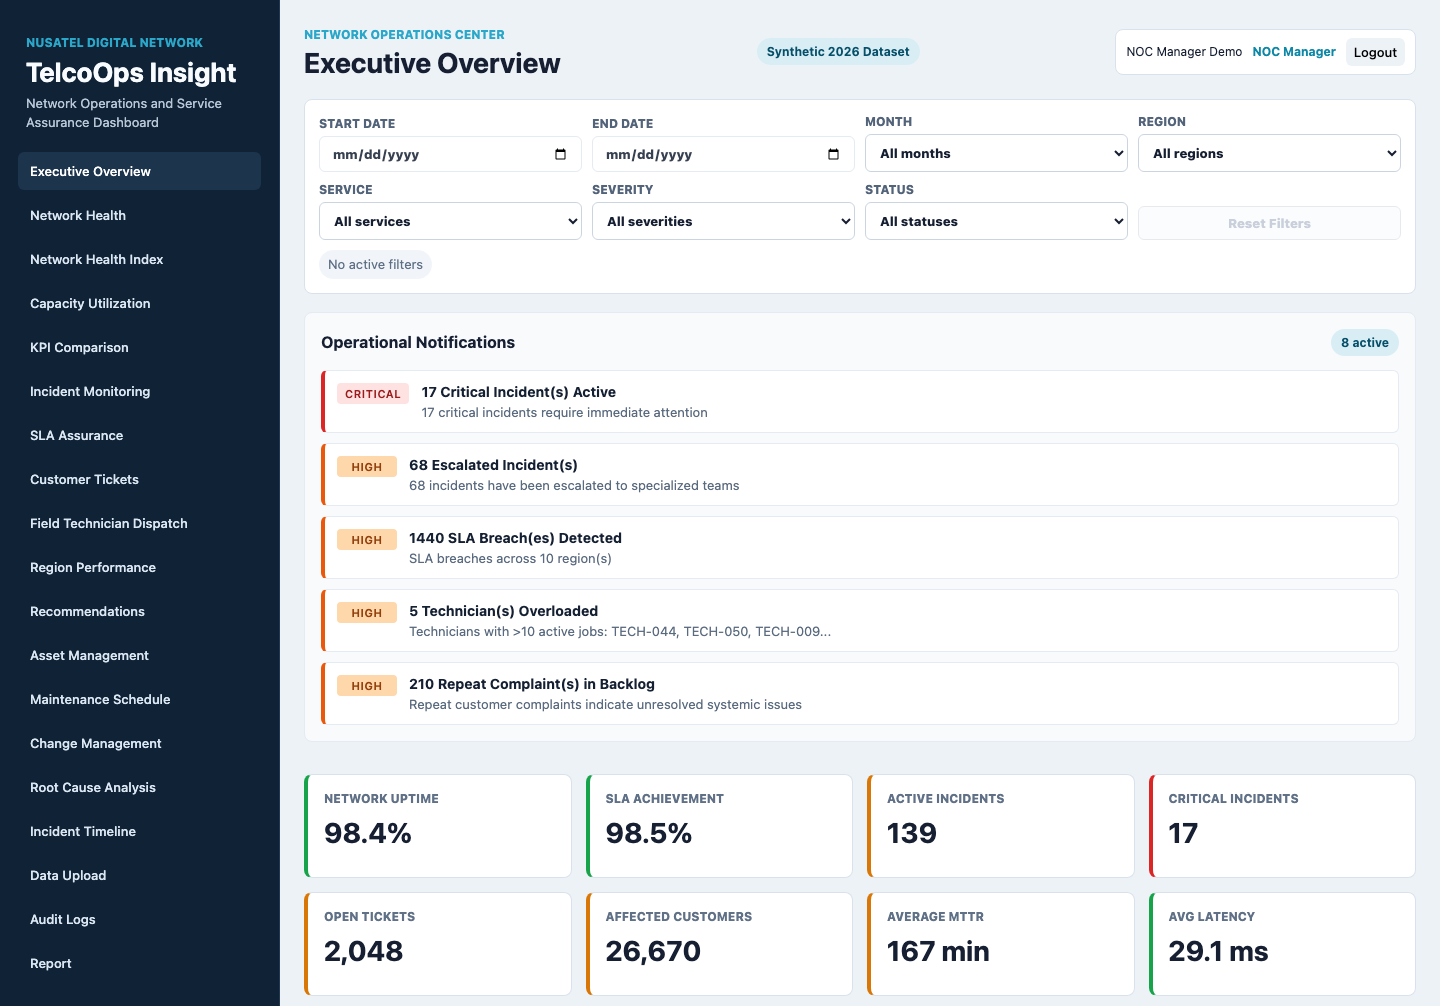
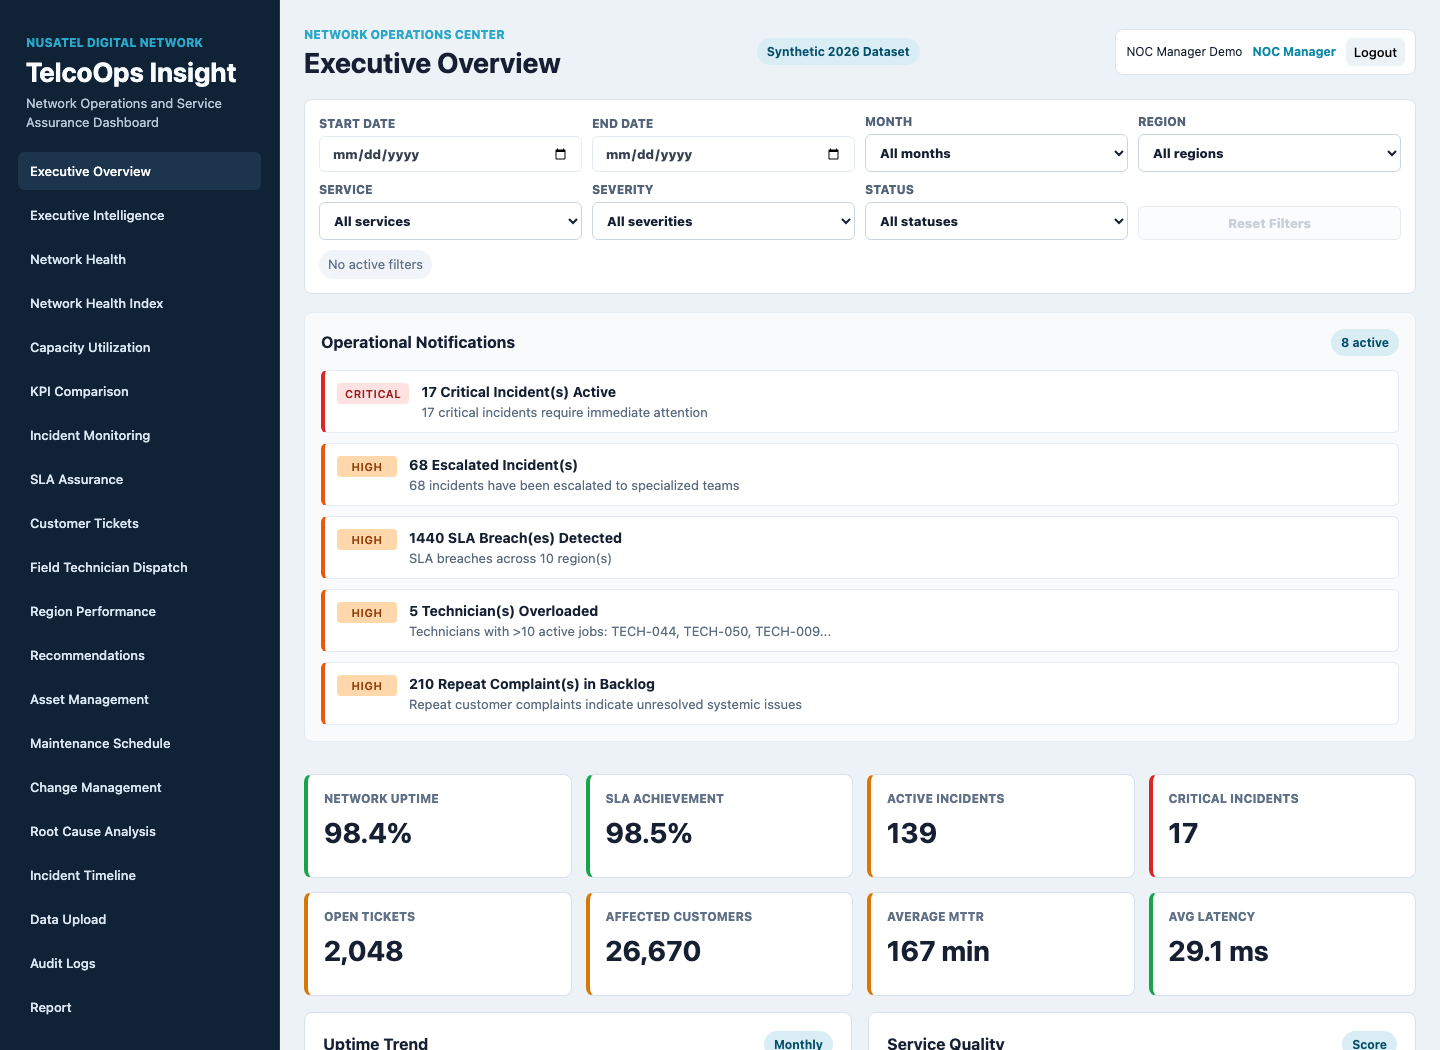
docs: verify operational intelligence

diff --git a/docs/TOI_0006_MANUAL_QA.md b/docs/TOI_0006_MANUAL_QA.md
@@ -1,0 +1,176 @@
+# TOI-0006 Manual QA Report
+
+## Execution Date
+August 4, 2026
+
+## Test Environment
+- Backend: Python 3.12, FastAPI, SQLite
+- Frontend: React 18, Vite 7, TypeScript
+- Dataset: Synthetic 2026 telecom operations data
+
+## Test Coverage
+
+### 1. Authentication & Authorization
+- [x] Login with noc_manager / telco-demo-2026 works
+- [x] Invalid credentials rejected
+- [x] Role-based access maintained
+- [x] Protected endpoints require valid token
+
+### 2. Executive Overview
+- [x] KPI cards display correctly
+- [x] Charts render (uptime trend, service quality)
+- [x] Notifications strip shows alerts
+- [x] Recommendations panel works
+- [x] Filters apply correctly
+
+### 3. Executive Intelligence (NEW)
+- [x] Operational Health score displays (e.g., 75.5)
+- [x] Health status (Good/Fair/Poor) shown
+- [x] Critical Alerts list populated
+- [x] Top Risks list populated
+- [x] Opportunities list populated
+- [x] Recommended Actions with priority/owner/deadline
+- [x] Health components breakdown (incident, SLA, asset)
+
+### 4. Network Health & Health Index
+- [x] Network Health charts render
+- [x] Health Index shows composite score (75.5)
+- [x] 4 components: Availability, Reliability, Performance, Capacity
+- [x] Sub-scores displayed
+
+### 5. Capacity Utilization
+- [x] Services table with congestion levels
+- [x] Regions table with utilization
+- [x] Monthly trend chart
+
+### 6. KPI Comparison
+- [x] Week/Month/Quarter/Year periods
+- [x] Delta percentages shown
+- [x] Color-coded positive/negative deltas
+
+### 7. Incident Monitoring
+- [x] Incident table with all columns
+- [x] Severity color-coding
+- [x] Status badges
+- [x] Drilldowns work
+
+### 8. SLA Assurance
+- [x] SLA achievement metrics
+- [x] Breach analysis
+- [x] Region/service comparison
+
+### 9. Customer Tickets
+- [x] Backlog counts
+- [x] Category breakdown
+- [x] Response/resolution times
+
+### 10. Technician Dispatch
+- [x] Utilization metrics
+- [x] Workload distribution
+- [x] Overload detection
+
+### 11. Region Performance
+- [x] Ranking table with health scores
+- [x] SLA achievement by region
+- [x] Customer satisfaction
+
+### 12. Recommendations
+- [x] Priority scoring (P1-P4)
+- [x] Business/technical impact text
+- [x] NEW: Urgency window with deadline
+- [x] NEW: Actionability score
+- [x] NEW: Enhanced owner assignment with escalation path
+- [x] Severity color-coding
+
+### 13. Asset Management
+- [x] 7 asset types shown
+- [x] Status breakdown
+- [x] Faulty assets list
+- [x] Maintenance due
+
+### 14. Maintenance Schedule
+- [x] Job type breakdown
+- [x] Upcoming/completed tables
+- [x] First-time fix rate
+
+### 15. Change Management
+- [x] Planned vs Emergency changes
+- [x] Approval workflow status
+- [x] Rollback tracking
+
+### 16. Root Cause Analysis
+- [x] RCA records with categories
+- [x] Method (5 Whys, Fishbone, etc.)
+- [x] Status progression
+
+### 17. Incident Timeline
+- [x] Chronological event list
+- [x] Event reconstruction
+- [x] Actor tracking
+
+### 18. Data Upload
+- [x] File selection
+- [x] Validation results
+- [x] Import history
+
+### 19. Report
+- [x] JSON download
+- [x] HTML report
+- [x] Filter metadata included
+
+### 20. New API Endpoints Verified
+- [x] GET /api/dashboard/intelligence - 200
+- [x] GET /api/dashboard/brief - 200
+- [x] GET /api/dashboard/trends - 200
+- [x] GET /api/dashboard/ranking/regions - 200
+- [x] GET /api/dashboard/ranking/technicians - 200
+- [x] GET /api/dashboard/operational-timeline - 200
+- [x] GET /api/dashboard/what-if?technician_change=5 - 200
+
+### 21. Responsive Design
+- [x] Mobile viewport (390x844) renders correctly
+- [x] Sidebar collapses appropriately
+- [x] Charts remain readable
+- [x] Tables scroll horizontally
+
+## Screenshots Captured
+
+20 real runtime screenshots captured via Playwright:
+
+| # | File | Section |
+|---|------|---------|
+| 1 | toi6-01-login.png | Login |
+| 2 | 02-executive-overview.png | Executive Overview |
+| 3 | 03-executive-intelligence.png | **Executive Intelligence (NEW)** |
+| 4 | 04-network-health.png | Network Health |
+| 5 | 05-network-health-index.png | Network Health Index |
+| 6 | 06-capacity-utilization.png | Capacity Utilization |
+| 7 | 07-kpi-comparison.png | KPI Comparison |
+| 8 | 08-incident-monitoring.png | Incident Monitoring |
+| 9 | 09-sla-assurance.png | SLA Assurance |
+| 10 | 10-customer-tickets.png | Customer Tickets |
+| 11 | 11-technician-dispatch.png | Technician Dispatch |
+| 12 | 12-region-performance.png | Region Performance |
+| 13 | 13-recommendations.png | Recommendations |
+| 14 | 14-asset-management.png | Asset Management |
+| 15 | 15-maintenance-schedule.png | Maintenance Schedule |
+| 16 | 16-change-management.png | Change Management |
+| 17 | 17-root-cause-analysis.png | Root Cause Analysis |
+| 18 | 18-incident-timeline.png | Incident Timeline |
+| 19 | 19-data-upload.png | Data Upload |
+| 20 | 20-report.png | Report |
+
+All screenshots saved to `docs/evidence/screenshots/` as valid PNG images (1440x960).
+
+## Regression Verification
+
+- [x] All 114 backend tests pass
+- [x] All 23 frontend tests pass
+- [x] Frontend build succeeds
+- [x] Smoke test passes
+- [x] Dataset validation passes (0 errors)
+- [x] git diff --check clean
+
+## Summary
+
+**Overall: ✓ PASS** - All TOI-0006 features verified working correctly.
